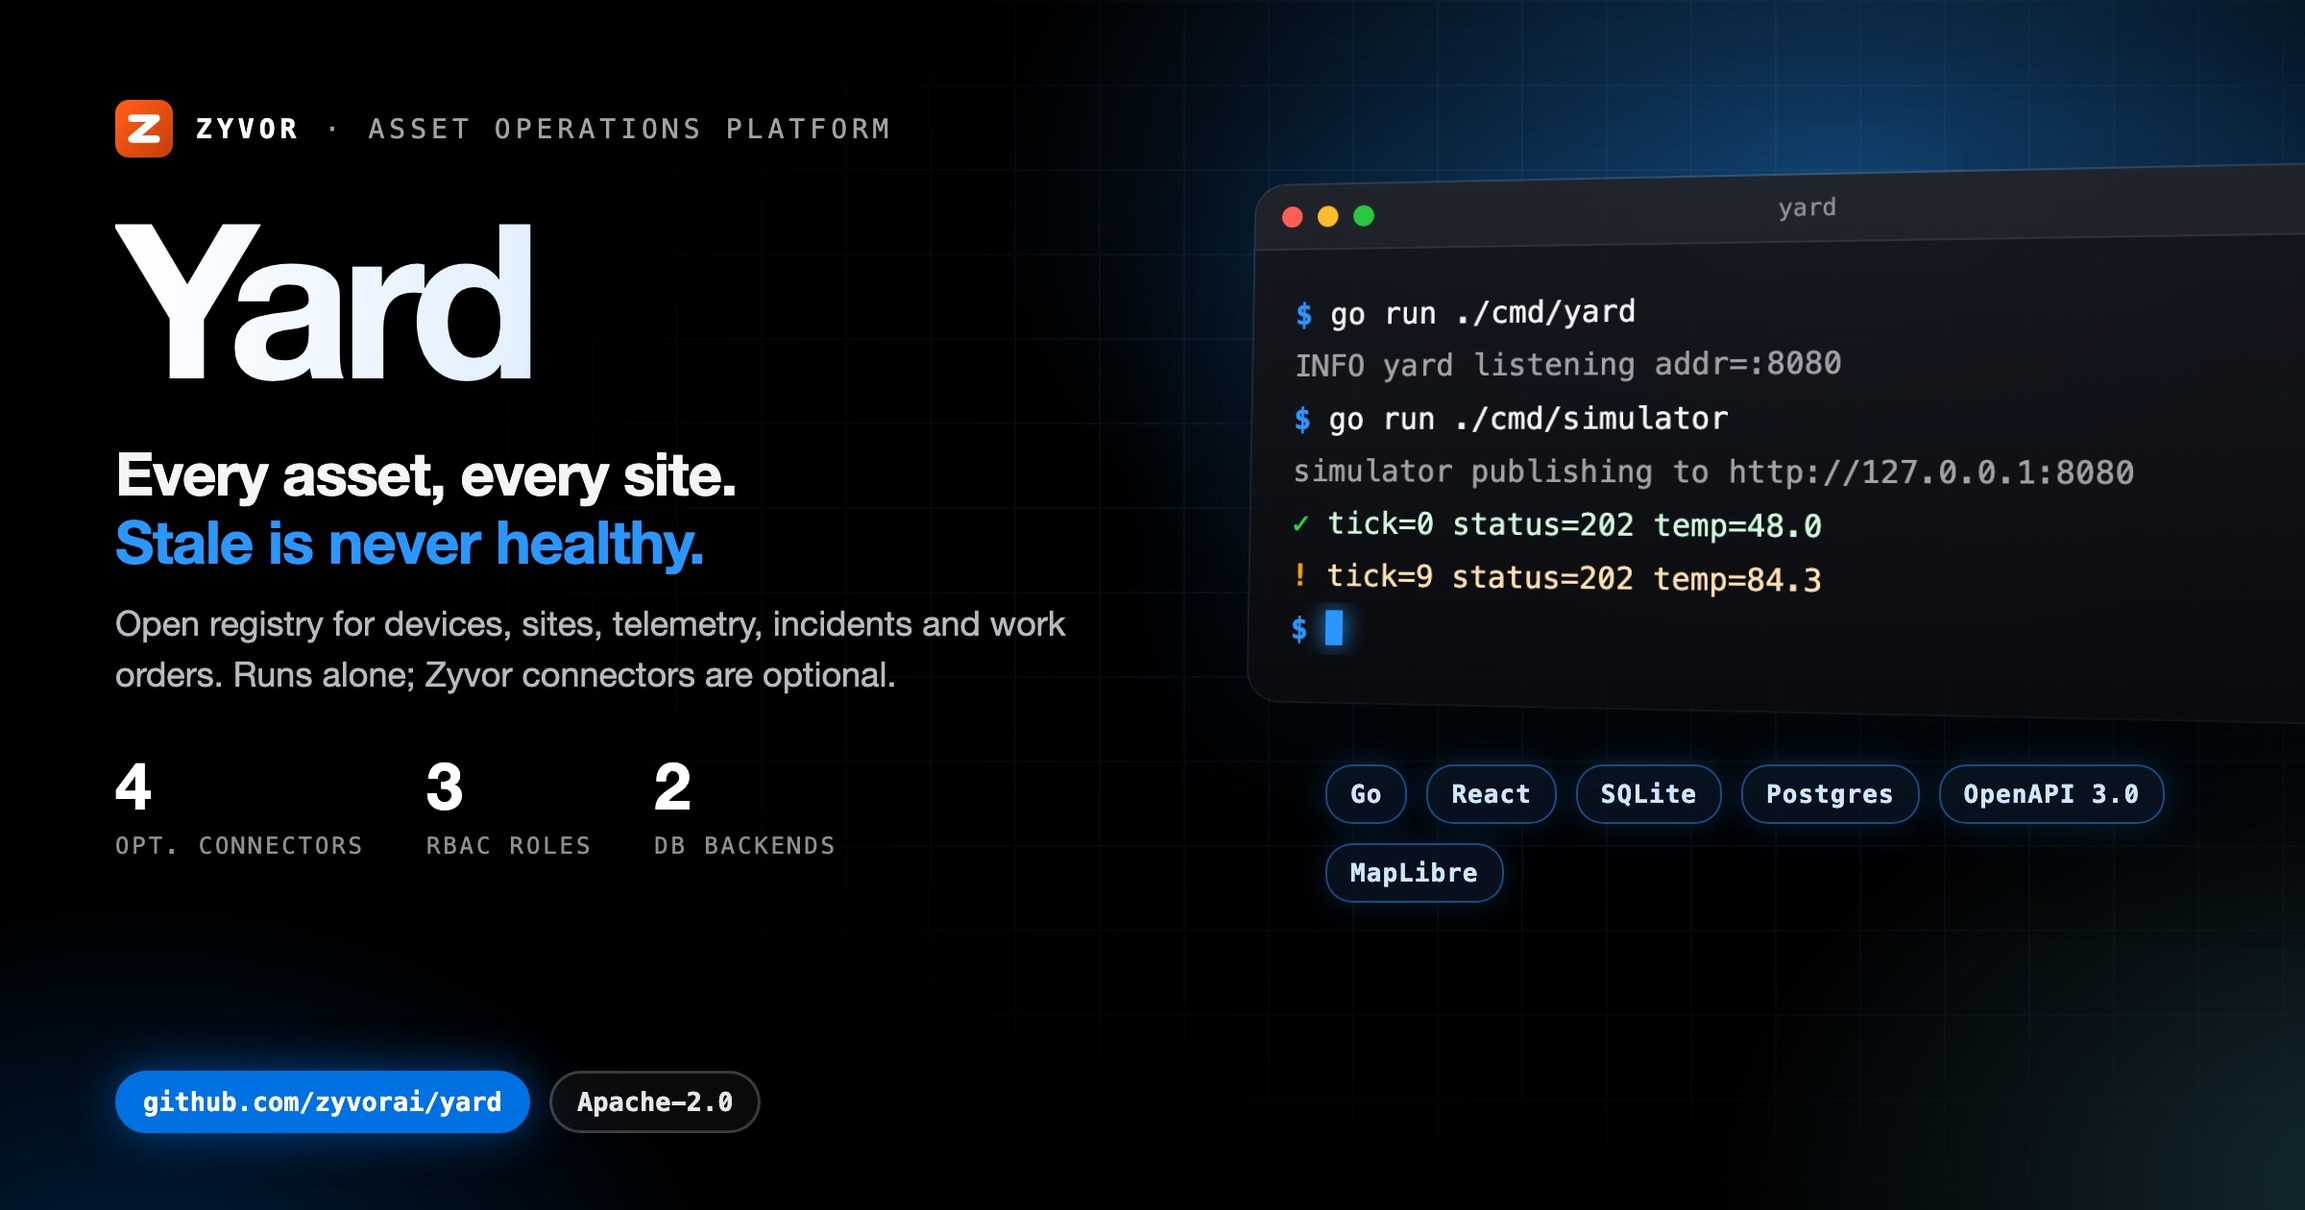
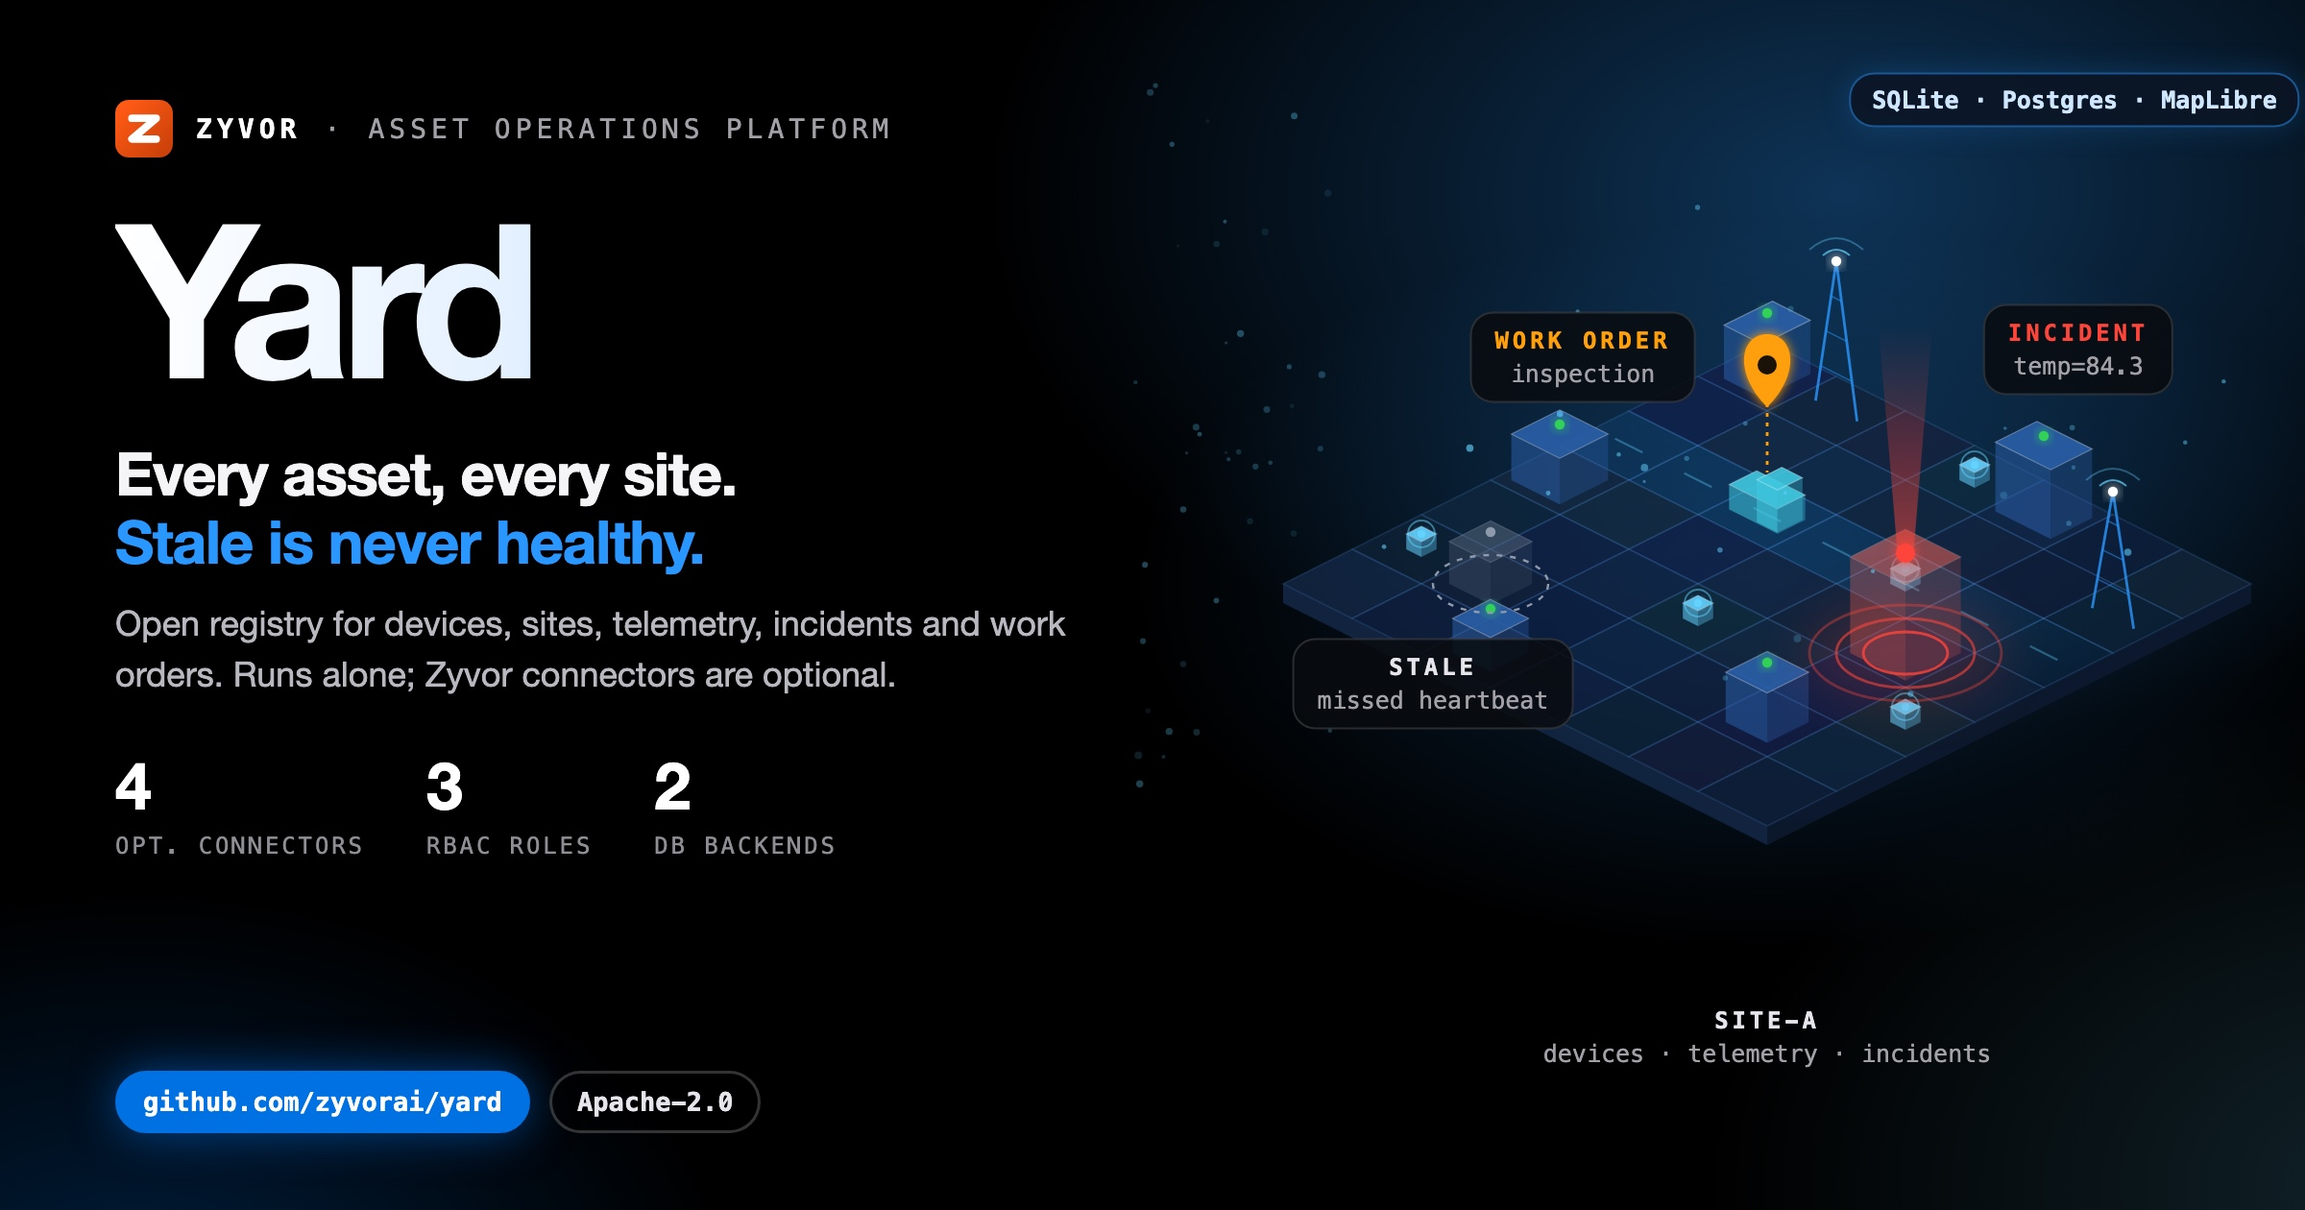
docs(social): unique illustrated hero card
Replace the shared terminal-window art with a motif drawn for this project;
same verified copy and stats on the left.

diff --git a/docs/social/yard-hero-dark.html b/docs/social/yard-hero-dark.html
@@ -8,58 +8,47 @@
   Build: ./docs/social/build-hero-dark.sh  ->  yard-hero-dark.jpg (2400x1260)
 -->
 <style>
-  :root { --blue:#0071e3; --signal:#2997ff; --cyan:#64d2ff; --green:#30d158; --amber:#ff9f0a;
+  :root { --blue:#0071e3; --signal:#2997ff; --cyan:#64d2ff; --green:#30d158; --amber:#ff9f0a; --red:#ff453a; --violet:#bf5af2;
     --sans:'SF Pro Display','Helvetica Neue',Helvetica,Arial,sans-serif; --mono:'SF Mono',Menlo,Consolas,monospace; }
   * { box-sizing:border-box; }
   html,body { margin:0; padding:0; }
   body { width:1200px; height:630px; overflow:hidden; color:#f5f5f7; font-family:var(--sans); position:relative; background:#000; }
   .aurora { position:absolute; inset:0;
-    background:radial-gradient(720px 460px at 80% 16%, rgba(41,151,255,.40), transparent 62%),
-               radial-gradient(600px 420px at 104% 98%, rgba(100,210,255,.20), transparent 60%),
+    background:radial-gradient(720px 460px at 80% 16%, rgba(41,151,255,.34), transparent 62%),
+               radial-gradient(600px 420px at 104% 98%, rgba(100,210,255,.16), transparent 60%),
                radial-gradient(520px 380px at 6% 110%, rgba(0,113,227,.28), transparent 60%); }
-  .grid { position:absolute; inset:0; opacity:.09;
-    background-image:linear-gradient(rgba(120,180,255,.9) 1px,transparent 1px),linear-gradient(90deg,rgba(120,180,255,.9) 1px,transparent 1px);
-    background-size:44px 44px; -webkit-mask-image:radial-gradient(900px 520px at 72% 42%, #000 18%, transparent 75%); }
-  .left { position:absolute; left:60px; top:52px; width:560px; z-index:3; }
+  .copy { position:absolute; left:60px; top:52px; width:560px; z-index:3; }
   .brand { display:flex; align-items:center; gap:12px; font-family:var(--mono); font-size:14px; letter-spacing:.18em; text-transform:uppercase; color:#a1a1a6; }
   .brand b { color:#fff; }
   .word { margin:20px 0 0; font-size:112px; line-height:.95; font-weight:800; letter-spacing:-.05em; white-space:nowrap;
     background:linear-gradient(92deg,#fff 0%,#e3f0ff 38%,var(--signal) 74%,var(--cyan) 100%); -webkit-background-clip:text; background-clip:text; color:transparent; padding-bottom:6px; }
   .tag { margin:14px 0 0; font-size:31px; line-height:1.15; font-weight:700; letter-spacing:-.02em; }
   .tag em { font-style:normal; color:var(--signal); }
-  .lede { margin:12px 0 0; font-size:18px; line-height:1.45; color:#b8b8bf; width:520px; }
+  .lede { margin:12px 0 0; font-size:18px; line-height:1.45; color:#b8b8bf; width:520px; text-shadow:0 1px 12px #000; }
   .stats { margin-top:24px; display:flex; gap:32px; }
   .stat b { display:block; font-size:34px; font-weight:800; letter-spacing:-.03em; color:#fff; }
   .stat span { font-family:var(--mono); font-size:12px; letter-spacing:.12em; text-transform:uppercase; color:#8e8e93; }
   .pill { position:absolute; left:60px; bottom:40px; display:flex; gap:10px; z-index:3; }
-  .pill span { font-family:var(--mono); font-size:13.5px; font-weight:700; padding:7px 13px; border-radius:18px; border:1.5px solid rgba(255,255,255,.2); color:#e5e5ea; background:rgba(255,255,255,.04); }
+  .pill span { font-family:var(--mono); font-size:13.5px; font-weight:700; padding:7px 13px; border-radius:18px; border:1.5px solid rgba(255,255,255,.2); color:#e5e5ea; background:rgba(0,0,0,.6); }
   .pill span.b { background:var(--blue); border-color:var(--blue); color:#fff; box-shadow:0 0 24px rgba(0,113,227,.55); }
-
-  .right { position:absolute; left:652px; top:96px; width:560px; z-index:2; }
-  .win { position:relative; width:560px; border-radius:16px; overflow:hidden; z-index:2;
-    background:linear-gradient(180deg, rgba(22,24,30,.94), rgba(10,11,14,.96));
-    box-shadow:0 50px 100px rgba(0,0,0,.75), 0 0 0 1px rgba(255,255,255,.14), 0 0 90px rgba(41,151,255,.22);
-    transform:perspective(1600px) rotateY(-14deg) rotateX(4deg); transform-origin:left center; }
-  .bar { height:34px; display:flex; align-items:center; gap:8px; padding:0 14px; background:rgba(255,255,255,.05); border-bottom:1px solid rgba(255,255,255,.07); }
-  .bar i { width:11px; height:11px; border-radius:50%; background:#ff5f57; } .bar i:nth-child(2){background:#febc2e} .bar i:nth-child(3){background:#28c840}
-  .bar em { margin-left:auto; margin-right:auto; font-style:normal; font-family:var(--mono); font-size:12px; color:#8e8e93; transform:translateX(-24px); }
-  .term { min-height:214px; padding:20px 22px 24px; font-family:var(--mono); font-size:15.5px; line-height:1.75; }
-  .l { white-space:pre; overflow:hidden; text-overflow:ellipsis; color:#f5f5f7; }
-  .l .p { color:var(--signal); font-weight:700; }
-  .l.out { color:#a1a1a6; }
-  .l.cm { color:#6e6e73; }
-  .l.ok { color:#d1f7dc; } .l.ok span { color:var(--green); font-weight:700; }
-  .l.warn { color:#ffe1b0; } .l.warn span { color:var(--amber); font-weight:700; }
-  .cur { display:inline-block; width:9px; height:18px; background:var(--signal); vertical-align:-3px; box-shadow:0 0 12px var(--signal); }
-  .chips { margin:34px 0 0 38px; width:480px; display:flex; flex-wrap:wrap; gap:10px; position:relative; z-index:3; }
-  .chips span { font-family:var(--mono); font-size:13px; font-weight:700; letter-spacing:.04em; padding:7px 12px; border-radius:14px;
-    color:#cfe6ff; background:rgba(10,20,35,.82); border:1px solid rgba(41,151,255,.45); box-shadow:0 0 18px rgba(41,151,255,.18); }
+  .art { position:absolute; left:520px; top:0; width:680px; height:630px; z-index:2; }
+  .art svg { display:block; }
+  #labels { position:absolute; inset:0; z-index:4; pointer-events:none; }
+  .lbl { position:absolute; font-family:var(--mono); font-size:12.5px; color:#a1a1a6; text-align:center; transform:translate(-50%,-50%); white-space:nowrap; }
+  .lbl b { display:block; font-size:12px; letter-spacing:.16em; text-transform:uppercase; color:#e5e5ea; }
+  .lbl span { display:block; margin-top:3px; }
+  .lbl.box { padding:7px 12px; border-radius:12px; background:rgba(8,10,14,.85); border:1px solid rgba(255,255,255,.14); }
+  .lbl.chip { padding:6px 11px; border-radius:13px; font-size:12.5px; font-weight:700; color:#cfe6ff; background:rgba(10,20,35,.85); border:1px solid rgba(41,151,255,.5); box-shadow:0 0 16px rgba(41,151,255,.2); }
+  .lbl.left { transform:translate(0,-50%); text-align:left; }
+  .lbl.right { transform:translate(-100%,-50%); text-align:right; }
+  .ok { color:var(--green) !important; } .warn { color:var(--amber) !important; } .bad { color:var(--red) !important; } .sig { color:var(--signal) !important; } .cy { color:var(--cyan) !important; } .vi { color:var(--violet) !important; }
 </style>
 </head>
 <body>
 <div class="aurora"></div>
-<div class="grid"></div>
-<div class="left">
+<div class="art"><svg id="art" width="680" height="630" viewBox="0 0 680 630" xmlns="http://www.w3.org/2000/svg"></svg></div>
+<div id="labels"></div>
+<div class="copy">
   <div class="brand"><svg viewBox="0 0 64 64" width="30" height="30" aria-hidden="true"><defs><linearGradient id="zb" x1="8" y1="8" x2="56" y2="56" gradientUnits="userSpaceOnUse"><stop offset="0" stop-color="#ff5a15"/><stop offset="1" stop-color="#cc420a"/></linearGradient></defs><rect width="64" height="64" rx="15" fill="url(#zb)"/><path d="M18.5,20.5 45.5,20.5 18.5,43.5 45.5,43.5" fill="none" stroke="#fff" stroke-width="8.3" stroke-linecap="round" stroke-linejoin="round"/></svg><b>Zyvor</b><span>&middot;</span><span>Asset operations platform</span></div>
   <div class="word">Yard</div>
   <div class="tag">Every asset, every site.<br><em>Stale is never healthy.</em></div>
@@ -67,8 +56,115 @@
   <div class="stats"><div class="stat"><b>4</b><span>opt. connectors</span></div><div class="stat"><b>3</b><span>RBAC roles</span></div><div class="stat"><b>2</b><span>DB backends</span></div></div>
 </div>
 <div class="pill"><span class="b">github.com/zyvorai/yard</span><span>Apache-2.0</span></div>
-<div class="right"><div class="win"><div class="bar"><i></i><i></i><i></i><em>yard</em></div>
-<div class="term"><div class="l"><span class="p">$</span> go run ./cmd/yard</div><div class="l out">INFO yard listening addr=:8080</div><div class="l"><span class="p">$</span> go run ./cmd/simulator</div><div class="l out">simulator publishing to http://127.0.0.1:8080</div><div class="l ok"><span>&#10003;</span> tick=0 status=202 temp=48.0</div><div class="l warn"><span>!</span> tick=9 status=202 temp=84.3</div><div class="l"><span class="p">$</span> <i class="cur"></i></div></div></div>
-<div class="chips"><span>Go</span><span>React</span><span>SQLite</span><span>Postgres</span><span>OpenAPI 3.0</span><span>MapLibre</span></div></div>
+<script>
+var Z = (function () {
+  var NS = 'http://www.w3.org/2000/svg', svg = document.getElementById('art'), labels = document.getElementById('labels');
+  var seed = 20261004;
+  function rnd() { seed = (seed * 1103515245 + 12345) % 2147483648; return seed / 2147483648; }
+  function el(tag, a, parent) { var n = document.createElementNS(NS, tag); for (var k in a) n.setAttribute(k, a[k]); (parent || svg).appendChild(n); return n; }
+  function g(attrs) { return el('g', attrs || {}); }
+  function label(x, y, inner, cls, style) { var d = document.createElement('div'); d.className = 'lbl ' + (cls || ''); d.style.left = (520 + x) + 'px'; d.style.top = y + 'px'; if (style) d.setAttribute('style', d.getAttribute('style') + ';' + style); d.innerHTML = inner; labels.appendChild(d); return d; }
+  return { NS: NS, svg: svg, W: 680, H: 630, rnd: rnd, el: el, g: g, label: label,
+    reseed: function (s) { seed = s; },
+    c: { blue: '#0071e3', signal: '#2997ff', cyan: '#64d2ff', green: '#30d158', amber: '#ff9f0a', red: '#ff453a', violet: '#bf5af2', teal: '#40c8e0', indigo: '#5e5ce6', pink: '#ff375f', white: '#f5f5f7', grey: '#8e8e93' } };
+})();
+(function () {
+// Yard: isometric site. A tiled yard of assets (towers, cabinets, sensors, a vehicle); one stale asset,
+// one incident beacon and a work-order pin.
+var C = Z.c, OX = 400, OY = 178, TW = 72, TH = 36, N = 7;
+var d = Z.el('defs', {});
+d.innerHTML = '<filter id="ydgl" x="-50%" y="-50%" width="200%" height="200%"><feGaussianBlur stdDeviation="3" result="b"/><feMerge><feMergeNode in="b"/><feMergeNode in="SourceGraphic"/></feMerge></filter>' +
+  '<filter id="ydsf" x="-80%" y="-80%" width="260%" height="260%"><feGaussianBlur stdDeviation="14"/></filter>' +
+  '<radialGradient id="ydfloor" cx=".5" cy=".5" r=".5"><stop offset="0" stop-color="#2997ff" stop-opacity=".22"/><stop offset="1" stop-color="#2997ff" stop-opacity="0"/></radialGradient>' +
+  '<linearGradient id="ydbeam" x1="0" y1="1" x2="0" y2="0"><stop offset="0" stop-color="#ff453a" stop-opacity=".55"/><stop offset="1" stop-color="#ff453a" stop-opacity="0"/></linearGradient>';
+function P(i, j, h) { return [OX + (i - j) * TW / 2, OY + (i + j) * TH / 2 - (h || 0)]; }
+function pts(a) { return a.map(function (p) { return p[0].toFixed(1) + ',' + p[1].toFixed(1); }).join(' '); }
+
+Z.el('ellipse', { cx: OX, cy: OY + N * TH / 2, rx: 330, ry: 190, fill: 'url(#ydfloor)' });
+// faint dot texture far left
+for (var k = 0; k < 40; k++) Z.el('circle', { cx: 70 + Z.rnd() * 110, cy: 40 + Z.rnd() * 380, r: .8 + Z.rnd() * 1.2, fill: C.cyan, opacity: (.08 + Z.rnd() * .25).toFixed(2) });
+
+// ground slab edge
+var slab = 10;
+Z.el('polygon', { points: pts([P(0, N), P(N, N), P(N, N, -slab), P(0, N, -slab)]), fill: 'rgba(20,40,70,.85)' });
+Z.el('polygon', { points: pts([P(N, 0), P(N, N), P(N, N, -slab), P(N, 0, -slab)]), fill: 'rgba(12,26,48,.9)' });
+// tiles
+for (var i = 0; i < N; i++) for (var j = 0; j < N; j++) {
+  var road = (j === 2);
+  var f = road ? 'rgba(41,151,255,.10)' : 'rgba(' + (14 + Z.rnd() * 8 | 0) + ',' + (30 + Z.rnd() * 14 | 0) + ',' + (56 + Z.rnd() * 20 | 0) + ',.75)';
+  Z.el('polygon', { points: pts([P(i, j), P(i + 1, j), P(i + 1, j + 1), P(i, j + 1)]), fill: f, stroke: 'rgba(100,170,255,.16)', 'stroke-width': .8 });
+}
+// road dashes
+for (var i = 0; i < N; i++) { var a = P(i + .3, 2.5), b = P(i + .7, 2.5); Z.el('line', { x1: a[0], y1: a[1], x2: b[0], y2: b[1], stroke: 'rgba(100,210,255,.35)', 'stroke-width': 1.2 }); }
+
+function box(i, j, w, dpt, h, col, op) {
+  var x0 = i + (1 - w) / 2, y0 = j + (1 - dpt) / 2, x1 = x0 + w, y1 = y0 + dpt;
+  op = op || 1;
+  Z.el('polygon', { points: pts([P(x0, y1), P(x1, y1), P(x1, y1, h), P(x0, y1, h)]), fill: col, opacity: (.55 * op).toFixed(2) });
+  Z.el('polygon', { points: pts([P(x1, y0), P(x1, y1), P(x1, y1, h), P(x1, y0, h)]), fill: col, opacity: (.35 * op).toFixed(2) });
+  Z.el('polygon', { points: pts([P(x0, y0, h), P(x1, y0, h), P(x1, y1, h), P(x0, y1, h)]), fill: col, opacity: (.9 * op).toFixed(2), stroke: 'rgba(255,255,255,.35)', 'stroke-width': .6 });
+  return P(i + .5, j + .5, h);
+}
+function led(p, col) { Z.el('circle', { cx: p[0], cy: p[1] - 5, r: 2.6, fill: col, filter: 'url(#ydgl)' }); }
+function tower(i, j, h, col) {
+  var b = P(i + .5, j + .5), t = P(i + .5, j + .5, h);
+  var l = P(i + .2, j + .5), r = P(i + .8, j + .5);
+  Z.el('polyline', { points: pts([l, t, r]), fill: 'none', stroke: col, 'stroke-width': 1.4, opacity: .8 });
+  for (var s = 1; s < 4; s++) { var y = s / 4; var a = [l[0] + (t[0] - l[0]) * y, l[1] + (t[1] - l[1]) * y], c = [r[0] + (t[0] - r[0]) * y, r[1] + (t[1] - r[1]) * y]; Z.el('line', { x1: a[0], y1: a[1], x2: c[0], y2: c[1], stroke: col, 'stroke-width': .8, opacity: .5 }); }
+  for (var w = 1; w <= 2; w++) Z.el('path', { d: 'M' + (t[0] - 7 * w) + ',' + (t[1] - 3 * w) + ' Q' + t[0] + ',' + (t[1] - 9 * w) + ' ' + (t[0] + 7 * w) + ',' + (t[1] - 3 * w), fill: 'none', stroke: C.cyan, 'stroke-width': 1, opacity: (.7 / w).toFixed(2) });
+  Z.el('circle', { cx: t[0], cy: t[1], r: 2.6, fill: '#fff', filter: 'url(#ydgl)' });
+  return t;
+}
+function sensor(i, j, col) { var p = box(i, j, .22, .22, 8, col); Z.el('circle', { cx: p[0], cy: p[1], r: 7, fill: 'none', stroke: col, opacity: .5 }); Z.el('circle', { cx: p[0], cy: p[1], r: 2, fill: col, filter: 'url(#ydgl)' }); return p; }
+
+// draw back-to-front (by i+j)
+var items = [
+  [0, 0, function () { led(box(0, 0, .55, .7, 28, '#2a5fa8'), C.green); }],
+  [1, 0, function () { tower(1, 0, 78, C.signal); }],
+  [3, 0, function () { sensor(3, 0, C.cyan); }],
+  [4, 0, function () { led(box(4, 0, .8, .6, 36, '#2a5fa8'), C.green); }],
+  [6, 1, function () { tower(6, 1, 66, C.signal); }],
+  [0, 3, function () { led(box(0, 3, .7, .7, 24, '#2a5fa8'), C.green); }],
+  [0, 5, function () { sensor(0, 5, C.cyan); }],
+  [1, 5, function () { var p = box(1, 5, .6, .6, 22, '#5a6a80', .55); Z.el('circle', { cx: p[0], cy: p[1] - 5, r: 2.6, fill: '#8e9aab' }); }],
+  [2, 2, function () { box(2, 2, .7, .4, 13, '#40c8e0'); box(2.18, 2, .3, .36, 22, '#40c8e0'); }],
+  [3, 4, function () { sensor(3, 4, C.cyan); }],
+  [5, 3, function () { box(5, 3, .8, .8, 50, '#ff6a5a', .55); }],
+  [5, 5, function () { led(box(5, 5, .6, .6, 26, '#2a5fa8'), C.green); }],
+  [6, 4, function () { sensor(6, 4, C.cyan); }],
+  [2, 6, function () { led(box(2, 6, .55, .55, 18, '#2a5fa8'), C.green); }],
+  [4, 2, function () { sensor(4, 2, C.cyan); }]
+];
+items.sort(function (a, b) { return (a[0] + a[1]) - (b[0] + b[1]); });
+items.forEach(function (it) { it[2](); });
+
+// stale ring on the grey asset
+var st = P(1.5, 5.5);
+Z.el('ellipse', { cx: st[0], cy: st[1], rx: 30, ry: 15, fill: 'none', stroke: '#8e9aab', 'stroke-dasharray': '3 4', 'stroke-width': 1.2 });
+
+// incident beacon on the hot cabinet (5,5)
+var ib = P(5.5, 3.5), it = P(5.5, 3.5, 50);
+Z.el('ellipse', { cx: ib[0], cy: ib[1], rx: 52, ry: 26, fill: C.red, opacity: .18, filter: 'url(#ydsf)' });
+[22, 36, 50].forEach(function (r, n) { Z.el('ellipse', { cx: ib[0], cy: ib[1], rx: r, ry: r / 2, fill: 'none', stroke: C.red, 'stroke-width': 1.4, opacity: (.8 - n * .22).toFixed(2) }); });
+Z.el('polygon', { points: (it[0] - 14) + ',' + (it[1] - 120) + ' ' + (it[0] + 14) + ',' + (it[1] - 120) + ' ' + (it[0] + 4) + ',' + it[1] + ' ' + (it[0] - 4) + ',' + it[1], fill: 'url(#ydbeam)' });
+Z.el('circle', { cx: it[0], cy: it[1] - 2, r: 5, fill: C.red, filter: 'url(#ydgl)' });
+
+// work-order pin on the vehicle (3,3)
+var wp = P(2.5, 2.5, 22);
+var px = wp[0], py = wp[1] - 50;
+Z.el('line', { x1: px, y1: py + 14, x2: wp[0], y2: wp[1], stroke: C.amber, 'stroke-width': 1.4, 'stroke-dasharray': '2 3' });
+Z.el('path', { d: 'M' + px + ',' + (py + 16) + ' C' + (px - 18) + ',' + (py - 2) + ' ' + (px - 14) + ',' + (py - 22) + ' ' + px + ',' + (py - 22) + ' C' + (px + 14) + ',' + (py - 22) + ' ' + (px + 18) + ',' + (py - 2) + ' ' + px + ',' + (py + 16) + 'Z', fill: C.amber, filter: 'url(#ydgl)' });
+Z.el('circle', { cx: px, cy: py - 6, r: 5, fill: '#1a1206' });
+
+// telemetry motes rising from the site
+for (var k = 0; k < 26; k++) { var q = P(Z.rnd() * N, Z.rnd() * N, 20 + Z.rnd() * 90); Z.el('circle', { cx: q[0], cy: q[1], r: .8 + Z.rnd() * 1.3, fill: C.cyan, opacity: (.2 + Z.rnd() * .45).toFixed(2) }); }
+// labels
+Z.label(it[0] + 90, it[1] - 108, '<b class="bad">incident</b><span>temp=84.3</span>', 'box');
+Z.label(px - 96, py - 10, '<b class="warn">work order</b><span>inspection</span>', 'box');
+Z.label(st[0] - 30, st[1] + 52, '<b>stale</b><span>missed heartbeat</span>', 'box');
+Z.label(400, 540, '<b>site-a</b><span>devices &middot; telemetry &middot; incidents</span>');
+Z.label(560, 52, 'SQLite &middot; Postgres &middot; MapLibre', 'chip');
+})();
+</script>
 </body>
 </html>
